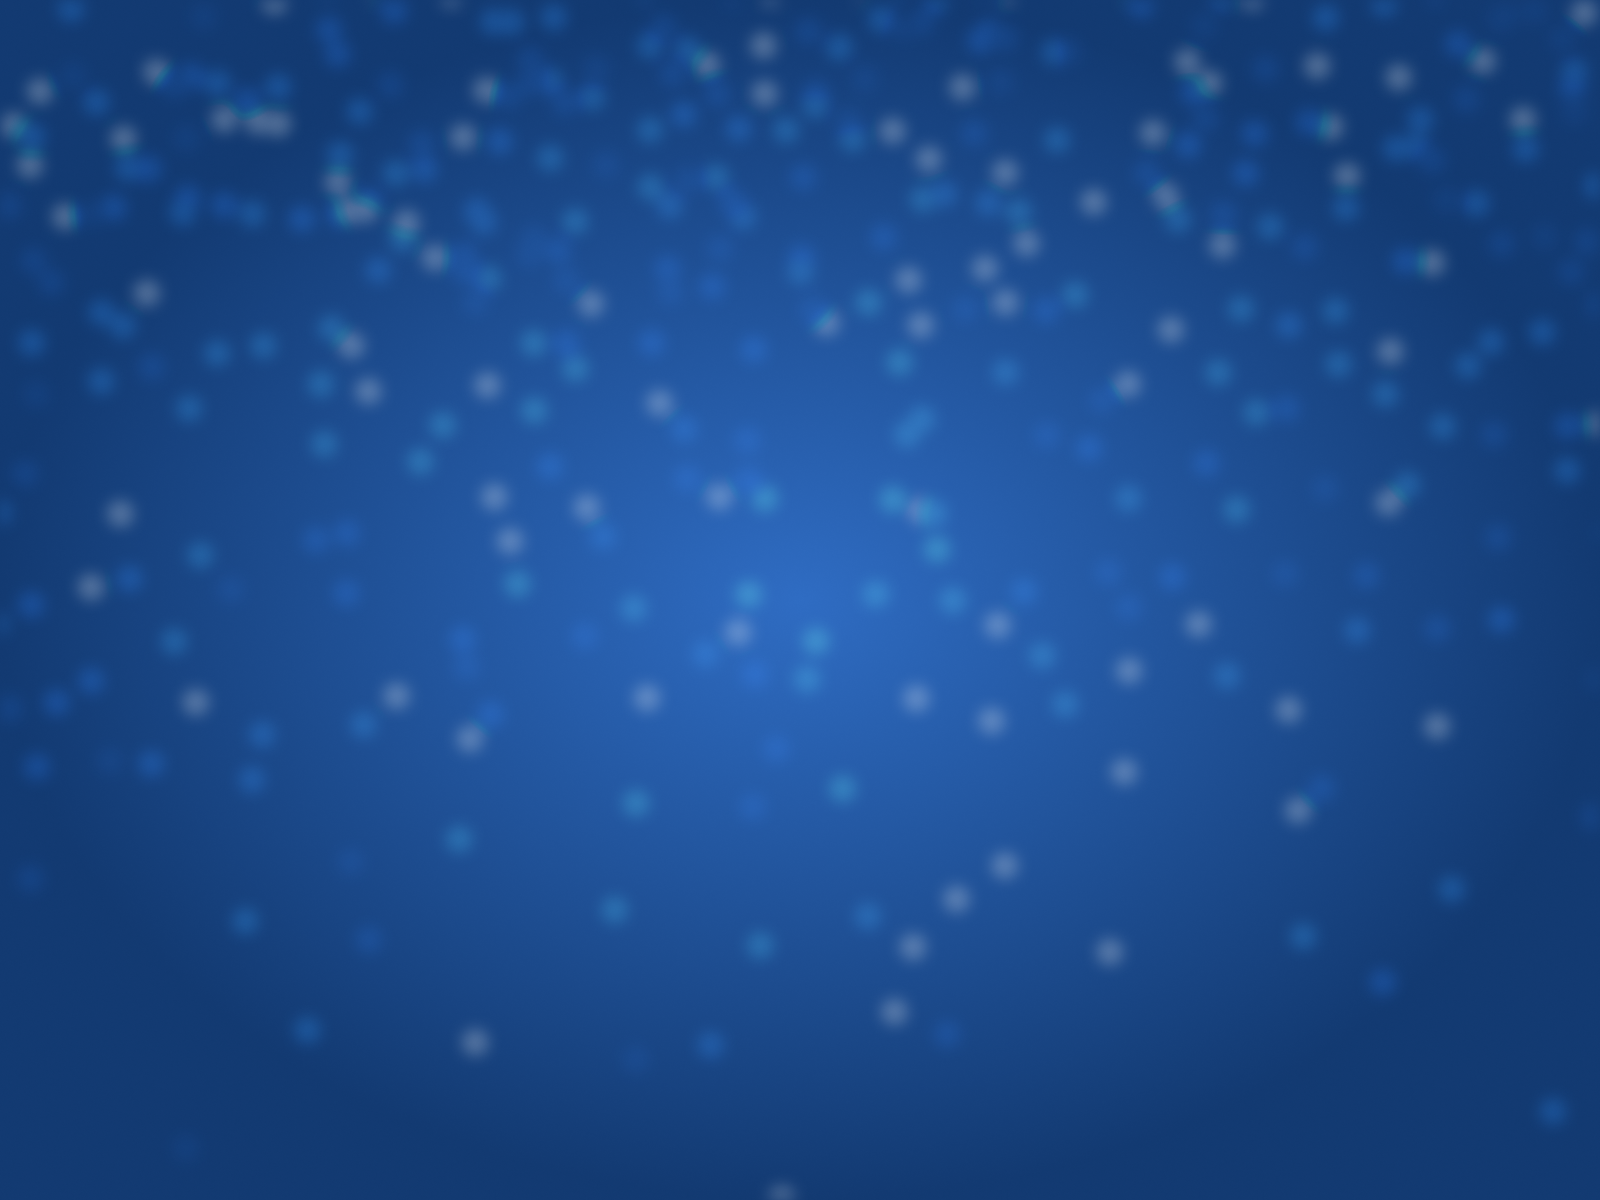
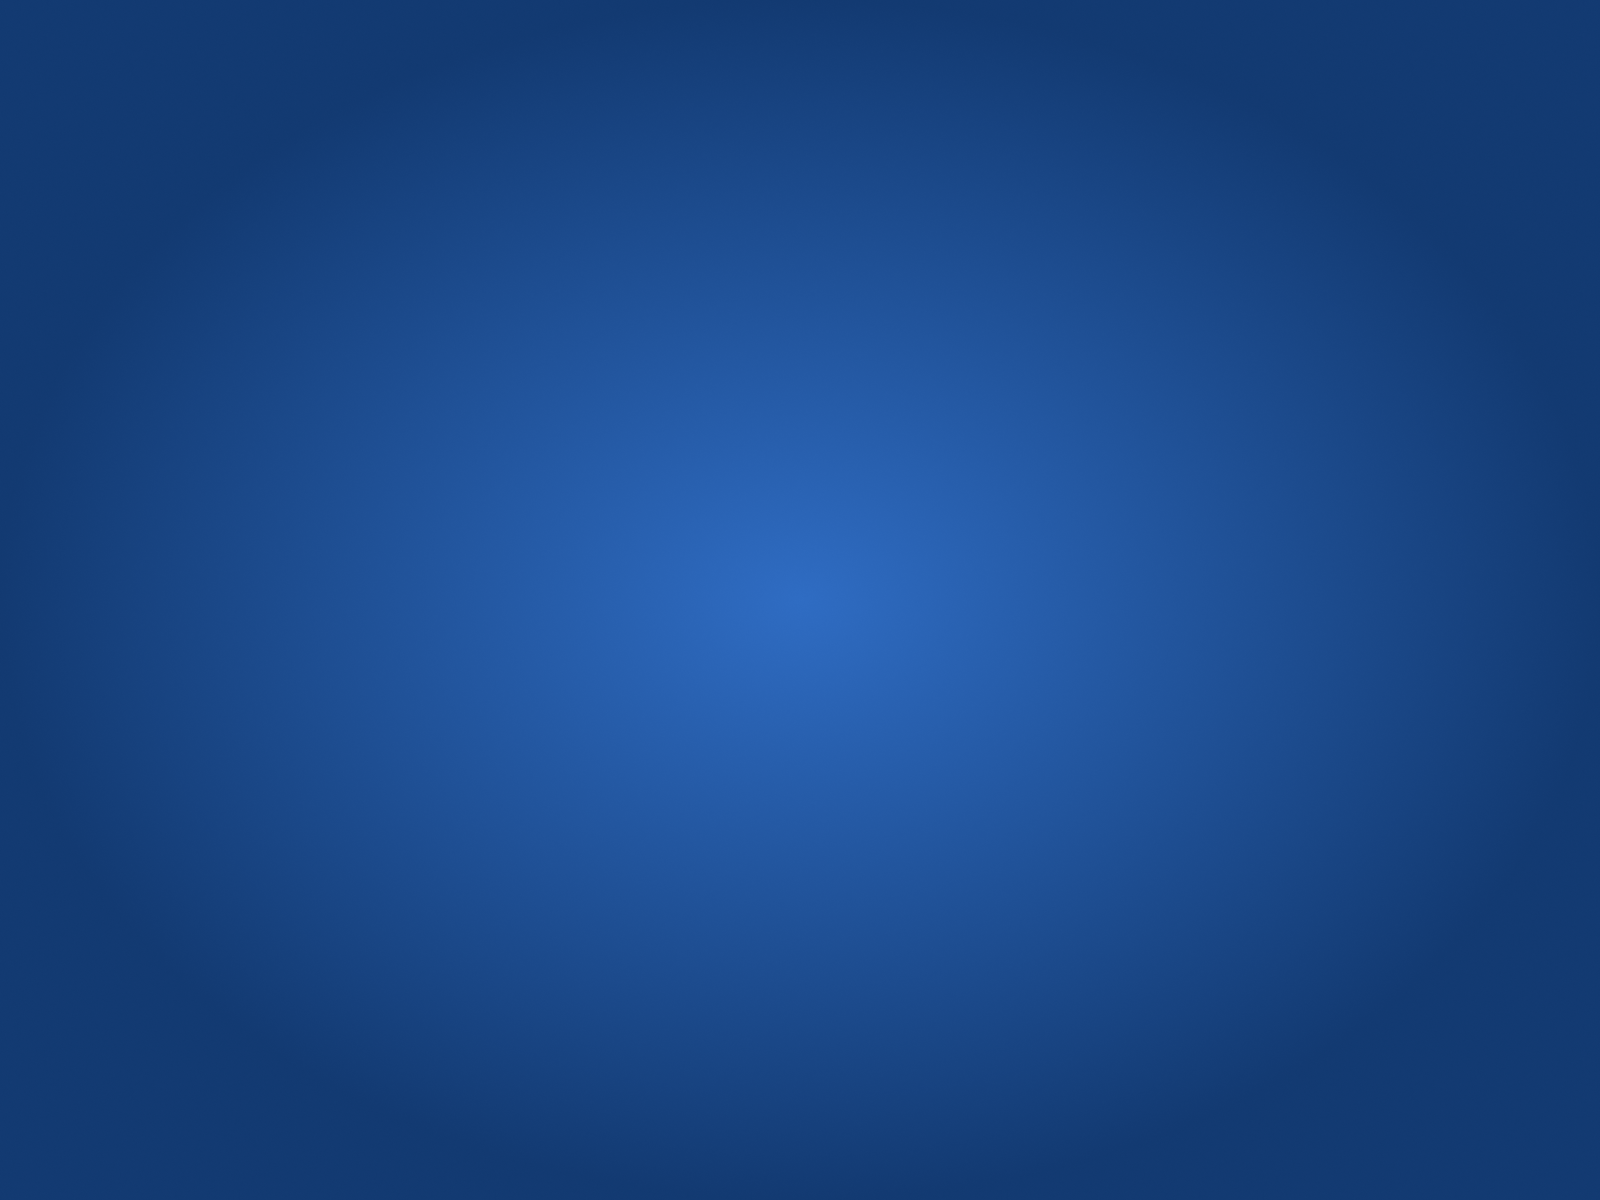
StageManager: Added cool new background.

diff --git a/pGroupeAB02/src/assets/style.css b/pGroupeAB02/src/assets/style.css
@@ -14,6 +14,14 @@
     -fx-background-size: cover;
 }
 
+#glitter {
+    -fx-background-color: transparent;
+    -fx-background-image: url("glitter.png");
+    -fx-background-repeat: no-repeat;
+    -fx-background-size: cover;
+}
+
+
 #wheel{
     -fx-background-image: url("wheel.png");
     -fx-background-size: cover;

diff --git a/pGroupeAB02/src/utils/StageManager.java b/pGroupeAB02/src/utils/StageManager.java
@@ -2,10 +2,14 @@ package utils;
 
 import controller.AudioController;
 import javafx.animation.FadeTransition;
-import javafx.scene.Parent;
+import javafx.animation.Interpolator;
+import javafx.animation.RotateTransition;
+import javafx.animation.ScaleTransition;
+import javafx.animation.Transition;
 import javafx.scene.Scene;
 import javafx.scene.image.Image;
 import javafx.scene.input.KeyCode;
+import javafx.scene.layout.Pane;
 import javafx.scene.layout.StackPane;
 import javafx.stage.Stage;
 import javafx.util.Duration;
@@ -17,7 +21,11 @@ public final class StageManager {
     }
 
     private static Stage stage;
+    private static StackPane viewContainer;
     private static View currentView;
+    private static Pane spinner;
+    private static Pane backgroud;
+    private static Pane glitter;
 
     public static final int DEFAULT_SCREEN_WIDTH = 960;
     public static final int DEFAULT_SCREEN_HEIGHT = 720;
@@ -42,11 +50,61 @@ public final class StageManager {
             Runtime.getRuntime().exit(0);
         });
 
-        View root = new View() {
+        spinner = new Pane();
+        spinner.setId("wheel");
+        spinner.setMinHeight(350);
+        spinner.setMinWidth(350);
+        spinner.setMaxHeight(350);
+        spinner.setMaxWidth(350);
+        spinner.setScaleX(10);
+        spinner.setScaleY(10);
+        spinner.setScaleZ(10);
+        spinner.setOpacity(0.25);
+
+        backgroud = new Pane();
+        backgroud.setId("background");
+        backgroud.setScaleX(1.25);
+        backgroud.setScaleY(1.25);
+
+        glitter = new Pane();
+        glitter.setId("glitter");
+        glitter.setScaleX(1.25);
+        glitter.setScaleY(1.25);
+        glitter.setOpacity(0.5);
+
+        RotateTransition animation = new RotateTransition(Duration.millis(16000), spinner);
+        animation.setByAngle(360);
+        animation.setCycleCount(Transition.INDEFINITE);
+        animation.setInterpolator(Interpolator.LINEAR);
+        animation.play();
+
+        View dummy = new View() {
         };
-        root.setId("background");
-        Scene scene = new Scene(root);
-        stage.setScene(scene);
+
+        viewContainer = new StackPane();
+        viewContainer.getChildren().add(backgroud);
+        viewContainer.getChildren().add(spinner);
+        viewContainer.getChildren().add(glitter);
+        viewContainer.getChildren().add(dummy);
+        currentView = dummy;
+
+        Scene scene = new Scene(viewContainer);
+        scene.setOnMouseMoved(event -> {
+            double x = (event.getSceneX() - scene.getWidth() / 2) / scene.getWidth();
+            double y = (event.getSceneY() - scene.getHeight() / 2) / scene.getHeight();
+
+            double offsetx = scene.getWidth() * 0.25 * x;
+            double offsety = scene.getHeight() * 0.25 * y;
+
+            backgroud.setTranslateX(-offsetx);
+            backgroud.setTranslateY(-offsety);
+
+            spinner.setTranslateX(-offsetx * 0.25);
+            spinner.setTranslateY(-offsety * 0.25);
+
+            glitter.setTranslateX(-offsetx * 0.5);
+            glitter.setTranslateY(-offsety * 0.5);
+        });
 
         scene.setOnKeyPressed(event -> {
             if (event.getCode().equals(KeyCode.ENTER) && event.isAltDown()) {
@@ -55,32 +113,48 @@ public final class StageManager {
             }
         });
 
+        stage.setScene(scene);
         stage.show();
     }
 
-    public static void switchView(View root) {
-        if (currentView != null) {
-            currentView.onSwitchOut();
-        }
+    public static void switchView(View nextView) {
+        currentView.onSwitchOut();
 
-        currentView = root;
+        viewContainer.getChildren().add(nextView);
 
-        currentView.onSwitchIn();
+        FadeTransition fadingNext = new FadeTransition();
 
-        Parent oldroot = stage.getScene().getRoot();
+        fadingNext.setFromValue(0);
+        fadingNext.setToValue(1);
+        fadingNext.setNode(nextView);
+        fadingNext.setDuration(Duration.seconds(0.25));
 
-        stage.getScene().setRoot(new StackPane(oldroot, root));
+        fadingNext.setOnFinished(actionEvent -> {
+            viewContainer.getChildren().remove(currentView);
+            currentView = nextView;
+            nextView.onSwitchIn();
+        });
 
-        FadeTransition fading = new FadeTransition();
+        ScaleTransition scaleNext = new ScaleTransition();
 
-        fading.setFromValue(0);
-        fading.setToValue(1);
-        fading.setNode(root);
-        fading.setDuration(Duration.seconds(0.25));
+        scaleNext.setFromX(0);
+        scaleNext.setToX(1);
+        scaleNext.setFromY(0);
+        scaleNext.setToY(1);
 
-        fading.setOnFinished(actionEvent -> stage.getScene().setRoot(new StackPane(root)));
+        scaleNext.setNode(nextView);
+        scaleNext.setDuration(Duration.seconds(0.25));
 
-        fading.play();
+        FadeTransition fadingCurrent = new FadeTransition();
+
+        fadingCurrent.setFromValue(1);
+        fadingCurrent.setToValue(0);
+        fadingCurrent.setNode(currentView);
+        fadingCurrent.setDuration(Duration.seconds(0.25));
+
+        fadingCurrent.play();
+        fadingNext.play();
+        scaleNext.play();
     }
 
     public static void setTitle(String title) {

diff --git a/pGroupeAB02/src/views/SplashScreen.java b/pGroupeAB02/src/views/SplashScreen.java
@@ -1,24 +1,16 @@
 package views;
 
-import javax.swing.Spring;
-
-import controller.AudioController;
-import javafx.animation.Interpolator;
-import javafx.animation.RotateTransition;
 import javafx.geometry.Insets;
 import javafx.geometry.Pos;
 import javafx.scene.control.Button;
 import javafx.scene.control.Label;
-import javafx.scene.layout.Pane;
 import javafx.scene.layout.StackPane;
 import javafx.scene.paint.Color;
 import javafx.scene.text.TextAlignment;
-import javafx.util.Duration;
 import utils.StageManager;
 
 public class SplashScreen extends View {
     public SplashScreen() {
-        this.setId("background");
         this.setPadding(new Insets(32));
 
         Button button = Widgets.makeButton("Press any key to start...");
@@ -30,26 +22,6 @@ public class SplashScreen extends View {
         labelRight.setTextFill(new Color(1, 1, 1, 0.5));
         StackPane.setAlignment(labelRight, Pos.BOTTOM_CENTER);
 
-        Pane spinner = new Pane();
-        spinner.setId("wheel");
-        spinner.setMinHeight(350);
-        spinner.setMinWidth(350);
-        spinner.setMaxHeight(350);
-        spinner.setMaxWidth(350);
-        spinner.setTranslateY(350);
-        spinner.setScaleX(5);
-        spinner.setScaleY(5);
-        spinner.setScaleZ(5);
-        spinner.setOpacity(0.25);
-
-        StackPane.setAlignment(spinner, Pos.CENTER);
-
-        RotateTransition animation = new RotateTransition(Duration.millis(16000), spinner);
-        animation.setByAngle(360);
-        animation.setCycleCount(Integer.MAX_VALUE);
-        animation.setInterpolator(Interpolator.LINEAR);
-        animation.play();
-
         this.setOnKeyTyped(keyEvent -> {
             StageManager.goToMainMenu();
         });
@@ -57,6 +29,6 @@ public class SplashScreen extends View {
             StageManager.goToMainMenu();
         });
 
-        this.getChildren().addAll(spinner, Widgets.makeLogo(), button, labelRight);
+        this.getChildren().addAll(Widgets.makeLogo(), button, labelRight);
     }
 }

diff --git a/pGroupeAB02/src/views/EndScreen.java b/pGroupeAB02/src/views/EndScreen.java
@@ -1,41 +1,10 @@
 package views;
 
-import javafx.animation.Interpolator;
-import javafx.animation.RotateTransition;
-import javafx.geometry.Insets;
-import javafx.geometry.Pos;
-import javafx.scene.layout.Background;
-import javafx.scene.layout.Pane;
-import javafx.scene.layout.StackPane;
-import javafx.scene.paint.Color;
-import javafx.util.Duration;
-
 public class EndScreen extends View {
 
     public EndScreen() {
-        this.setStyle("-fx-background-color: black;");
 
-        Pane spinner = new Pane();
-        spinner.setId("wheel");
-        spinner.setMinHeight(350);
-        spinner.setMinWidth(350);
-        spinner.setMaxHeight(350);
-        spinner.setMaxWidth(350);
-        spinner.setTranslateY(350);
-        spinner.setScaleX(5);
-        spinner.setScaleY(5);
-        spinner.setScaleZ(5);
-        spinner.setOpacity(0.1);
-
-        StackPane.setAlignment(spinner, Pos.CENTER);
-
-        RotateTransition animation = new RotateTransition(Duration.millis(16000), spinner);
-        animation.setByAngle(360);
-        animation.setCycleCount(Integer.MAX_VALUE);
-        animation.setInterpolator(Interpolator.LINEAR);
-        animation.play();
-
-        this.getChildren().addAll(spinner, Widgets.makeLogo());
+        this.getChildren().addAll(Widgets.makeLogo());
     }
 
 }

diff --git a/pGroupeAB02/src/views/Information.java b/pGroupeAB02/src/views/Information.java
@@ -8,7 +8,6 @@ import utils.StageManager;
 public class Information extends View {
     public Information(String title, String message) {
         this.setAlignment(Pos.CENTER);
-        this.setId("background");
         this.setPadding(new Insets(32));
 
         Button backButton = Widgets.makeButton("Go back to menu");

diff --git a/pGroupeAB02/src/views/JoinMultiplayer.java b/pGroupeAB02/src/views/JoinMultiplayer.java
@@ -13,7 +13,6 @@ import utils.StageManager;
 public class JoinMultiplayer extends View {
     public JoinMultiplayer() {
         this.setAlignment(Pos.CENTER);
-        this.setId("background");
         this.setPadding(new Insets(32));
 
         TextField userNameTextfield = Widgets.makeTextField("User");

diff --git a/pGroupeAB02/src/views/PendingGame.java b/pGroupeAB02/src/views/PendingGame.java
@@ -24,7 +24,6 @@ public class PendingGame extends View {
 
     public PendingGame(Game game) {
         this.game = game;
-        this.setId("background");
         this.setPadding(new Insets(0, 32, 32, 32));
 
         players = new PlayerRoomControl[4];

diff --git a/pGroupeAB02/src/views/MainMenu.java b/pGroupeAB02/src/views/MainMenu.java
@@ -42,7 +42,6 @@ public class MainMenu extends View {
         };
 
         this.setAlignment(Pos.CENTER);
-        this.setId("background");
         this.getChildren().add(menuContainer);
 
         orbQuit.setOnMouseClicked(mouseEvent -> {
